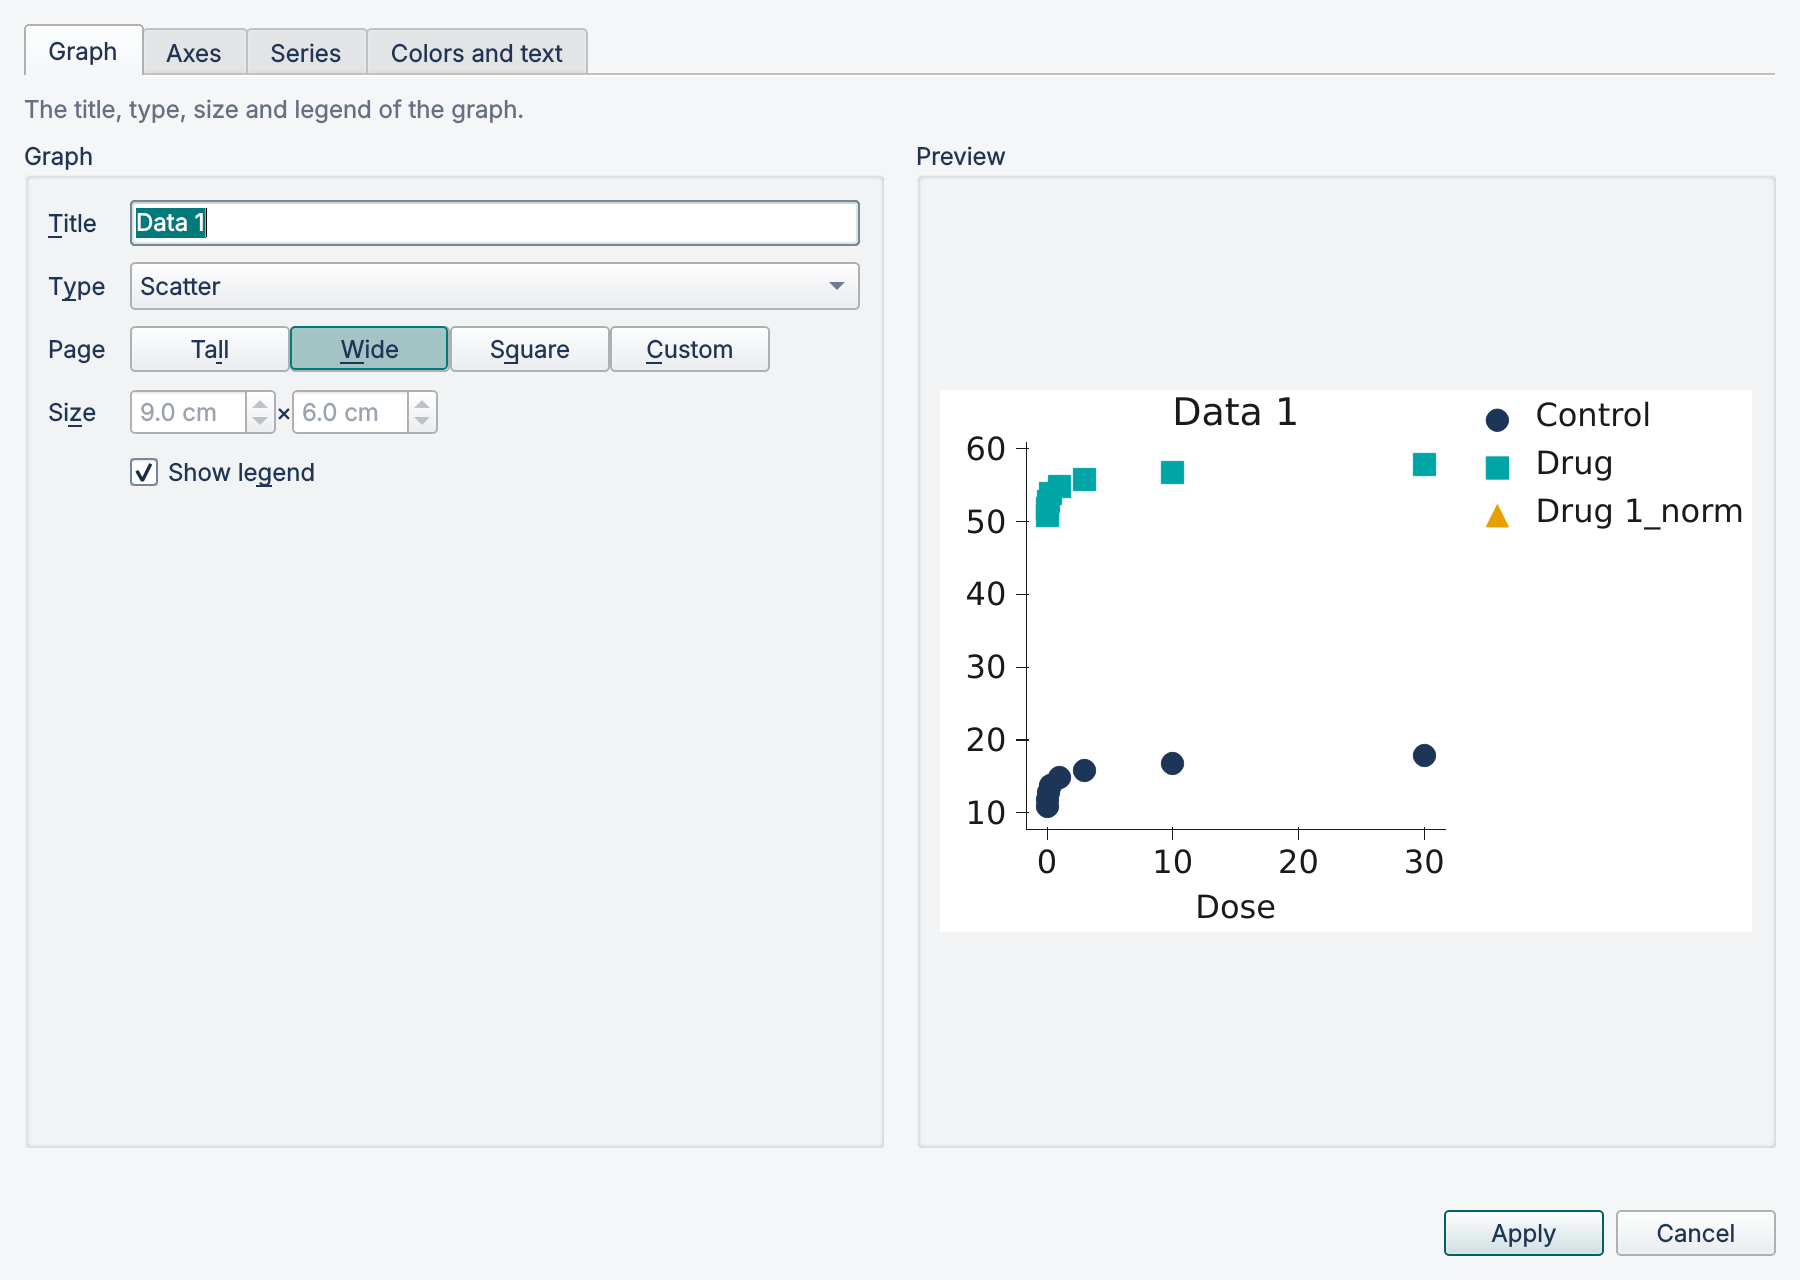
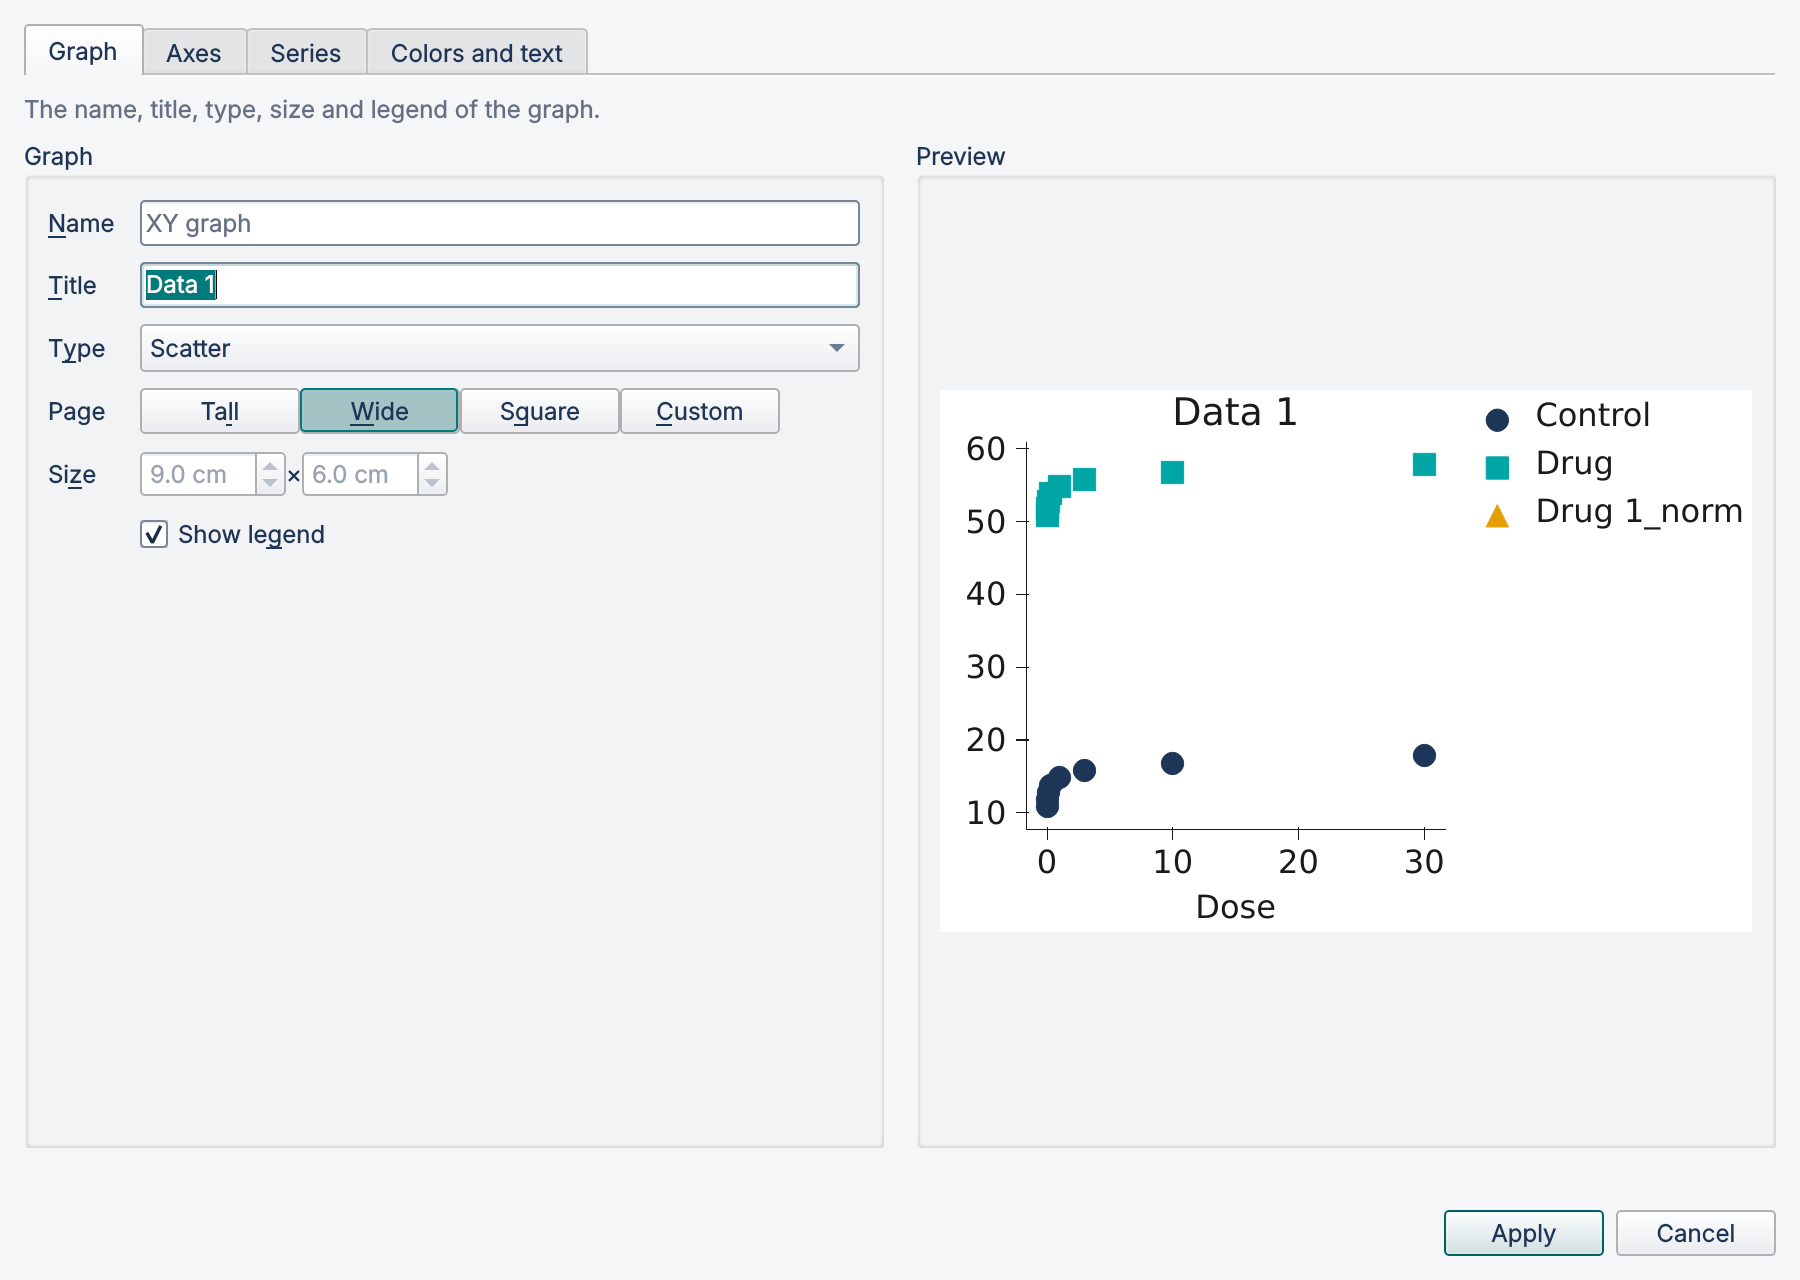
User guide: comparison brackets and graph names (#56)
A Comparisons section with a screenshot, graph renaming, the Name field and Add comparisons in the Format dialog, and Ctrl+Shift+M in the keyboard table. Screenshots touched by #54 made again.

Claude-Session: https://claude.ai/code/session_01CFpmBWZ6vc81xLEuCGii6m

Changed region(s): [[0.0311, 0.1562, 0.4667, 0.4375], [0.0311, 0.0625, 0.3422, 0.0938]]

diff --git a/scripts/user_guide_screenshots.py b/scripts/user_guide_screenshots.py
@@ -109,6 +109,14 @@ def group_comparison_results(window: MainWindow) -> None:
     tab.show_results()
 
 
+def group_comparison_brackets(window: MainWindow) -> None:
+    tab = window.new_from_sample("group_comparison")
+    tab.show_graph()
+    pump(QApplication.instance(), window)  # type: ignore[arg-type]
+    analysis = tab.document.analyses[0]
+    tab.set_comparisons(analysis.id)
+
+
 def categories(window: MainWindow) -> None:
     tab = window._add_tab(two_way_document(), None)
     tab.show_results()
@@ -151,6 +159,7 @@ def main() -> None:
             window_shot(settings, app, "main-window", dose_response_results)
             window_shot(settings, app, "graph-panel", dose_response_graph)
             window_shot(settings, app, "results-panel", group_comparison_results)
+            window_shot(settings, app, "graph-comparisons", group_comparison_brackets)
             window_shot(settings, app, "categories", categories, (1400, 620))
         finally:
             ctx.scheduler.shutdown()

diff --git a/docs/user-guide/graphs.md b/docs/user-guide/graphs.md
@@ -14,8 +14,15 @@ cannot draw are greyed out, with the reason (an XY graph needs an X column with 
 ## The Graph panel
 
 The graph appears in the **Graph** panel next to the table (**View › Graph panel**). Pick
-the graph to show at the top. Its small toolbar changes the graph type, formats, deletes
-and exports the graph shown. Deleting a graph asks first; Undo brings it back.
+the graph to show at the top. Its small toolbar changes the graph type, shows comparisons,
+formats, deletes and exports the graph shown. Deleting a graph asks first; Undo brings it
+back.
+
+Graphs are named after their type ("Bar graph", "Bar graph 2") until you rename them. To
+rename the graph shown, press Ctrl+Shift+M (or **Graph › Rename graph**, or right-click the
+graph list), type the name and press Enter; Esc keeps the old name. Names are up to 80
+characters and differ between the graphs of a table. The name is only used in the list: it
+is not drawn on the graph (that is the title).
 
 ![The Graph panel with a dose-response curve](images/graph-panel.png)
 
@@ -27,12 +34,34 @@ series in the list and press Space.
 A curve fit is drawn over the XY graphs of its table. Deleting the fit also removes its
 curves from the graphs.
 
+## Comparisons
+
+The results of a t-test, Mann-Whitney test, one-way ANOVA or Kruskal-Wallis test can be
+shown on a bar, box, violin or column scatter graph of the same table, as brackets between
+the groups compared. Click **Show comparisons** on the Graph panel toolbar (or
+**Graph › Show comparisons**) and pick the test; with several tests of the table, the menu
+lists each. Brackets are only added when you ask for them, and a graph shows the
+comparisons of one test at a time. **Hide comparisons** takes them off.
+
+![Comparison brackets of a one-way ANOVA with Dunnett's test](images/graph-comparisons.png)
+
+Each bracket shows stars (* P < 0.05, ** P < 0.01, *** P < 0.001) or, if you choose, the
+P value, written as set in [Settings](projects.md#settings). Pairs that do not differ are
+left out unless you turn on **Show non-significant pairs (ns)**. Both choices are in the
+Format dialog's Series section, where the comparisons are listed with the series. Short
+brackets sit lowest, and longer ones go over them; the value axis grows to make room.
+
+Comparisons are drawn on upright graphs that are not grouped; on horizontal bars, histograms
+and grouped graphs the button says why it is not available. The brackets follow the test:
+they change when the data change or the test is run again, and go away when the test is
+deleted.
+
 ## The Format dialog
 
 **Format graph…** (Ctrl+Shift+F, or double-click the graph) has four sections. The
 preview shows each change; **Apply** keeps them.
 
-**Graph**: the title, the graph type (XY and bar graphs can change between the types of
+**Graph**: the name (shown in the graph list), the title, the graph type (XY and bar graphs can change between the types of
 their family; survival and interaction graphs keep theirs), the page size (Tall 4 × 6 cm,
 Wide 9 × 6 cm, Square 6 × 6 cm, or your own width and height) and whether the graph shows
 a legend. Bar-family graphs of categories choose how they are grouped: clustered by
@@ -53,7 +82,8 @@ they do not fit side by side).
 and survival graphs), its symbol, symbol size, line style, line width, color,
 error bars and whether it is listed in the legend. Select several series to change them
 together. Series can be added, removed and reordered; fitted curves are listed with the
-series and can be removed.
+series and can be removed. On bar-family graphs, **Add** also adds the comparisons of a
+test (see [Comparisons](#comparisons)).
 
 ![Format graph: the Series section](images/format-series.png)
 

diff --git a/docs/user-guide/keyboard.md b/docs/user-guide/keyboard.md
@@ -47,6 +47,7 @@ panel next to it and back. **View › Next pane** and **Previous pane** do the s
 | Ctrl+Shift+K | Calculate |
 | Ctrl+Shift+E | Edit calculation |
 | Ctrl+Shift+A | Analyze |
+| Ctrl+Shift+M | Rename graph |
 | Ctrl+Shift+F | Format graph |
 | Ctrl+Shift+X | Export graph |
 | Ctrl+, | Settings |
